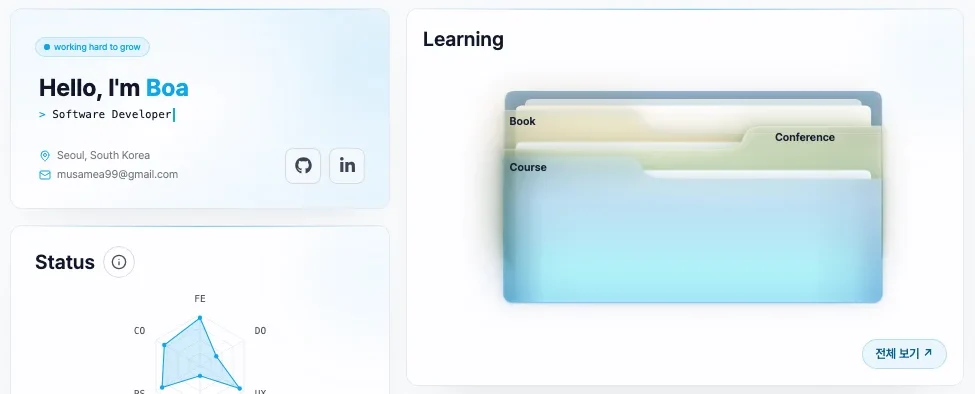
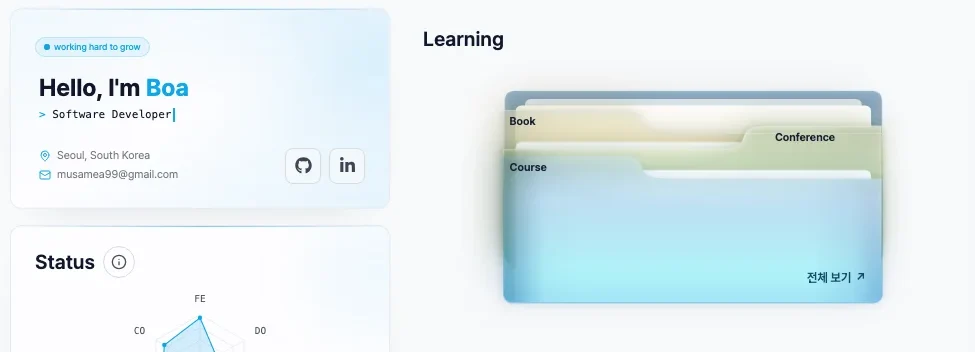
style: place the archive link on the Learning folder

diff --git a/src/app/(layout)/(shell)/resume/_components/cards/LearningShelfPreview.tsx b/src/app/(layout)/(shell)/resume/_components/cards/LearningShelfPreview.tsx
@@ -13,7 +13,7 @@ function FolderIndex({ type }: { type: LearningType }) {
 
 export default function LearningShelfPreview({ entries, className, animationDelay }: ResumeCardSlotProps & { entries: readonly LearningPreview[] }) {
   return (
-    <ResumeCard className={className} animationDelay={animationDelay}>
+    <ResumeCard accent={false} className={`${styles.folderCard} ${className ?? ""}`} animationDelay={animationDelay}>
       <section aria-label="최근 학습 후기" className="flex h-full flex-col gap-1">
         <h2 className="text-xl font-semibold">Learning</h2>
         <div className={styles.folderVisual}>
@@ -23,6 +23,12 @@ export default function LearningShelfPreview({ entries, className, animationDela
             <FolderIndex type="book" />
             <FolderIndex type="conference" />
             <FolderIndex type="course" />
+            <Link
+              href="/learning"
+              className={`${styles.folderBrowse} inline-flex min-h-8 items-center gap-1 rounded px-2 text-xs font-semibold underline-offset-4 hover:underline focus-visible:outline-2 focus-visible:outline-offset-2 focus-visible:outline-current`}
+            >
+              전체 보기 <span aria-hidden>↗</span>
+            </Link>
           </div>
         </div>
         {entries.length > 0 && (
@@ -30,12 +36,6 @@ export default function LearningShelfPreview({ entries, className, animationDela
             {entries.map((entry) => <LearningCard key={entry.slug} entry={entry} compact />)}
           </div>
         )}
-        <Link
-          href="/learning"
-          className={`${styles.folderBrowse} mt-auto self-end rounded-full border border-folder-blue/25 bg-folder-blue/8 px-3 py-1.5 text-xs font-semibold transition-colors hover:bg-folder-blue/15 focus-visible:outline-2 focus-visible:outline-offset-2 focus-visible:outline-folder-blue`}
-        >
-          전체 보기 <span aria-hidden>↗</span>
-        </Link>
       </section>
     </ResumeCard>
   );

diff --git a/e2e/learning.spec.ts b/e2e/learning.spec.ts
@@ -45,15 +45,19 @@ test("the Resume folder indexes link to their Learning categories", async ({ pag
   expect(await reflections.boundingBox()).toEqual(await art.boundingBox());
   const heading = folder.getByRole("heading", { name: "Learning", exact: true });
   const browse = folder.getByRole("link", { name: /전체 보기/ });
-  const [headingBox, artBox, browseBox, folderBox] = await Promise.all([
+  const [headingBox, artBox, browseBox] = await Promise.all([
     heading.boundingBox(),
     art.boundingBox(),
     browse.boundingBox(),
-    folder.boundingBox(),
   ]);
   expect(headingBox!.y + headingBox!.height).toBeLessThanOrEqual(artBox!.y);
-  expect(browseBox!.y).toBeGreaterThanOrEqual(artBox!.y + artBox!.height);
-  expect(Math.abs(browseBox!.x + browseBox!.width - folderBox!.x - folderBox!.width)).toBeLessThan(1);
+  const rightInset = artBox!.x + artBox!.width * 0.941 - (browseBox!.x + browseBox!.width);
+  const bottomInset = artBox!.y + artBox!.height * 0.8984 - (browseBox!.y + browseBox!.height);
+  expect(rightInset).toBeGreaterThan(0);
+  expect(rightInset).toBeLessThan(20);
+  expect(bottomInset).toBeGreaterThan(0);
+  expect(bottomInset).toBeLessThan(20);
+  await expect(folder.locator("xpath=ancestor::section[1]")).toHaveCSS("background-color", "rgba(0, 0, 0, 0)");
   await expect(folder.getByText("배운 것과 나의 관점, 실제 적용의 기록")).toHaveCount(0);
   await expect(folder.getByText("학습 후기를 차곡차곡 정리하고 있습니다.")).toHaveCount(0);
   await expect(art).toHaveAttribute("viewBox", "0 0 624 380");

diff --git a/src/app/(layout)/(shell)/resume/_components/cards/ResumeCollections.module.css b/src/app/(layout)/(shell)/resume/_components/cards/ResumeCollections.module.css
@@ -1,3 +1,10 @@
+.folderCard {
+  overflow: visible;
+  border-color: transparent;
+  background: none;
+  box-shadow: none;
+}
+
 .folderVisual {
   position: relative;
   width: min(100%, 28rem);
@@ -67,7 +74,13 @@
 }
 
 .folderBrowse {
-  color: color-mix(in srgb, var(--color-folder-blue) 52%, var(--color-foreground));
+  position: absolute;
+  z-index: 1;
+  inset-inline-end: 0.5rem;
+  /* The visible folder ends above the SVG's shadow padding. */
+  inset-block-end: calc(10.16% + 0.5rem);
+  color: color-mix(in srgb, var(--color-folder-blue) 32%, #172033);
+  white-space: nowrap;
 }
 
 .recordLink {
